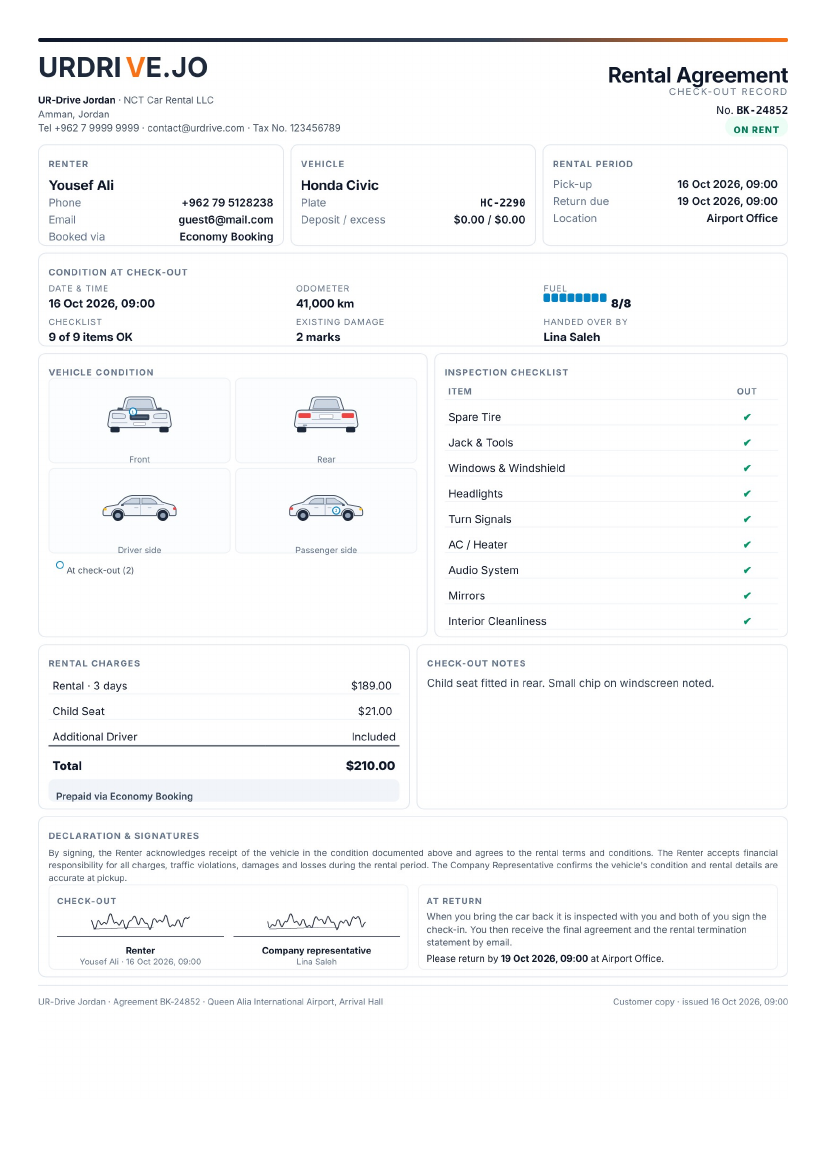
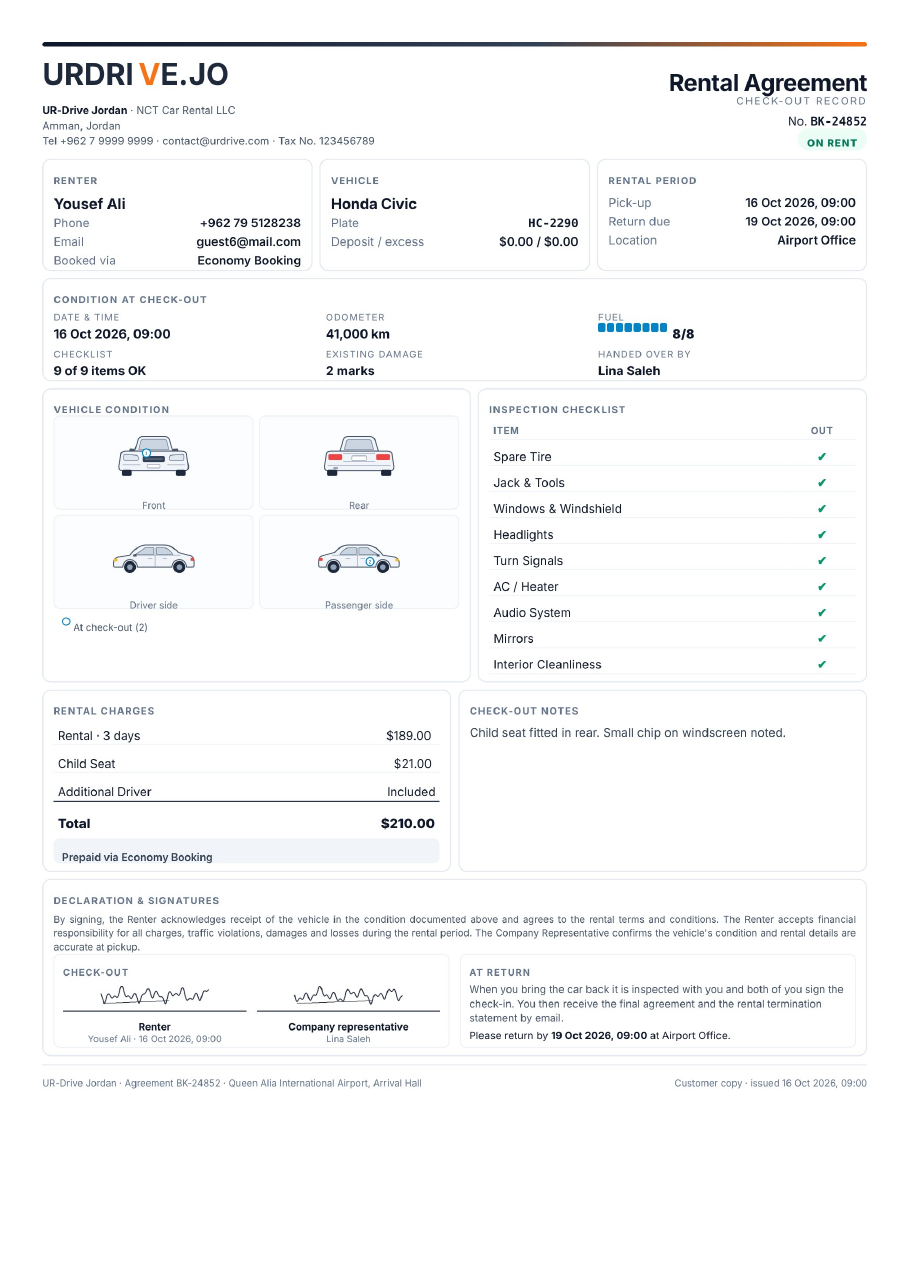
Fit the signed check-in agreement on one page
- Without charges at return, notes sit beside the rental charges and the
  comparison/checklist rows are tighter, so the declaration, all four
  signatures and the check-in time are on the same page as the record.
- PDF export shrinks a document that overflows one page by 10% or less
  onto that page instead of leaving a near-empty second page, and trims
  trailing blank space.

Claude-Session: https://claude.ai/code/session_01SZbkRoLvbcfyYadGhzb7Rr

diff --git a/services/agreementDoc.ts b/services/agreementDoc.ts
@@ -70,6 +70,8 @@ export function buildAgreementHtml(i: AgreementDocInput): string {
     <div class="sig"><div class="si">${img ? `<img src="${esc(img)}"/>` : ''}</div><div class="sl">${esc(role)}</div><div class="sm">${esc([name, at].filter(Boolean).join(' · ') || ' ')}</div></div>`;
   const tick = (v?: boolean, warn?: boolean) => (v ? '<span class="ok">✔</span>' : warn ? '<span class="bad">✕</span>' : '<span class="dim">—</span>');
 
+  // Notes sit beside the rental charges when there is no charges-at-return card, to keep one page.
+  const sideNotes = !rc && (closed ? !!(r.pickupNotes || r.dropOffNotes) : !!r.pickupNotes);
   const status = closed ? ['Closed', 'closed'] : onRent ? ['On rent', 'open'] : ['Booked', 'new'];
   const paymentLine = i.prepaid
     ? `Prepaid via ${esc(r.source || 'partner')}`
@@ -108,6 +110,7 @@ export function buildAgreementHtml(i: AgreementDocInput): string {
   td, th { padding: 3px 4px; border-bottom: 1px solid #f1f5f9; text-align: left; vertical-align: middle; }
   th { font-size: 6.8pt; text-transform: uppercase; letter-spacing: .07em; color: #64748b; font-weight: 700; }
   .cmp th { background: #f8fafc; }
+  .cmp td, .cl td { padding-top: 1px; }
   .cgrid { display: grid; grid-template-columns: repeat(3, 1fr); gap: 6px 14px; }
   .cgrid > div > span { display: block; font-size: 6.8pt; color: #64748b; text-transform: uppercase; letter-spacing: .08em; }
   .cgrid b { font-size: 9pt; }
@@ -137,6 +140,7 @@ export function buildAgreementHtml(i: AgreementDocInput): string {
   .sgrp { border: 1px solid #eef2f6; border-radius: 6px; padding: 5px 8px 6px; }
   .sgrp h3 { font-size: 6.8pt; text-transform: uppercase; letter-spacing: .1em; color: #64748b; margin-bottom: 2px; }
   .sgrp .row { display: grid; grid-template-columns: 1fr 1fr; gap: 10px; }
+  .nl + .nl { margin-top: 5px; } .nl span { display: block; font-size: 6.6pt; text-transform: uppercase; letter-spacing: .08em; color: #94a3b8; }
   .sgrp.next p { font-size: 7.4pt; color: #475569; margin-top: 3px; } .sgrp.next .due { color: #0f172a; }
   .si { height: 34px; display: flex; align-items: flex-end; justify-content: center; }
   .si img { max-height: 34px; max-width: 100%; }
@@ -208,14 +212,14 @@ export function buildAgreementHtml(i: AgreementDocInput): string {
       <div class="legend"><i style="border:1.5px solid #0284c7;background:#fff"></i>At check-out (${pickupMarks.length})${closed ? `<i style="background:#e11d48"></i>New at check-in (${returnMarks.length})` : ''}</div>
     </div>
     <div class="card"><h2>Inspection checklist</h2>
-      <table>
+      <table class="cl">
         <tr><th>Item</th><th class="ctr">Out</th>${closed ? '<th class="ctr">In</th>' : ''}</tr>
         ${i.checklistItems.map(x => `<tr><td>${esc(x)}</td><td class="ctr">${tick(out[x])}</td>${closed ? `<td class="ctr">${tick(back[x], !!out[x])}</td>` : ''}</tr>`).join('')}
       </table>
     </div>
   </div>
 
-  <div class="${rc || (!closed && r.pickupNotes) ? 'g2' : ''}" style="${rc || (!closed && r.pickupNotes) ? '' : 'margin-top:7px'}">
+  <div class="${rc || sideNotes ? 'g2' : ''}" style="${rc || sideNotes ? '' : 'margin-top:7px'}">
     <div class="card"><h2>Rental charges</h2>
       <table>
         <tr><td>Rental · ${i.rentalDays} day${i.rentalDays === 1 ? '' : 's'}</td><td class="num">${usd(i.baseRentalFee)}</td></tr>
@@ -224,7 +228,9 @@ export function buildAgreementHtml(i: AgreementDocInput): string {
       </table>
       <div class="settle info">${paymentLine}${r.unpaidExtensionAmount ? ` · ${usd(r.unpaidExtensionAmount)} extension due` : ''}</div>
     </div>
-    ${!closed && r.pickupNotes ? `<div class="card"><h2>Check-out notes</h2><div class="notes">${esc(r.pickupNotes)}</div></div>` : ''}
+    ${sideNotes ? `<div class="card"><h2>${closed ? 'Notes' : 'Check-out notes'}</h2>${closed
+      ? `<div class="nl"><span>At check-out</span><div class="notes">${esc(r.pickupNotes || '—')}</div></div><div class="nl"><span>At check-in</span><div class="notes">${esc(r.dropOffNotes || '—')}</div></div>`
+      : `<div class="notes">${esc(r.pickupNotes)}</div>`}</div>` : ''}
     ${rc ? `<div class="card"><h2>Charges at check-in · ${esc(rc.documentNumber || '')}</h2>
       <table>
         ${rc.items.map(it => `<tr><td>${esc(CHARGE_KIND_LABEL[it.kind])} — ${esc(it.description)}</td><td class="num">${esc(formatMoney(it.amount, rc.currency))}</td></tr>`).join('')}
@@ -238,7 +244,7 @@ export function buildAgreementHtml(i: AgreementDocInput): string {
 
   ${photos.length ? `<div class="card" style="margin-top:7px"><h2>Photo evidence at check-in</h2><div class="photos">${photos.map(p => `<figure><img src="${esc(p.src)}"/><figcaption>${esc(p.cap)}</figcaption></figure>`).join('')}</div></div>` : ''}
 
-  ${closed && (r.pickupNotes || r.dropOffNotes) ? `<div class="g2">
+  ${closed && rc && (r.pickupNotes || r.dropOffNotes) ? `<div class="g2">
     <div class="card"><h2>Check-out notes</h2><div class="notes">${esc(r.pickupNotes || '—')}</div></div>
     <div class="card"><h2>Check-in notes</h2><div class="notes">${esc(r.dropOffNotes || '—')}</div></div>
   </div>` : ''}

diff --git a/services/agreementPdf.ts b/services/agreementPdf.ts
@@ -46,7 +46,7 @@ export async function agreementHtmlToPdfBase64(html: string): Promise<string> {
 
     // Places where a page may end without cutting through a row, card or photo (in CSS px from the top).
     const bodyTop = body.getBoundingClientRect().top;
-    const breaks = Array.from(doc.querySelectorAll('tr, .card, .avoid, .sec, table, .totals, .note, .band, .photos, .sign, .info, .parties, .sum'))
+    const breaks = Array.from(doc.querySelectorAll('tr, .card, .avoid, .sec, table, .totals, .note, .band, .photos, .sign, .info, .parties, .sum, .foot, .balance, .notes, .sig, .lead, .facts'))
       .map(el => (el as HTMLElement).getBoundingClientRect().bottom - bodyTop)
       .filter(b => b > 0)
       .sort((a, b) => a - b);
@@ -61,9 +61,26 @@ export async function agreementHtmlToPdfBase64(html: string): Promise<string> {
     const sliceH = Math.floor((pageH - margin * 2 - 10) / ratio);
     let y = 0;
     let page = 0;
-    while (y < canvas.height - 2) {
-      let end = Math.min(y + sliceH, canvas.height);
-      if (end < canvas.height) {
+    // Trim the blank space below the last element so it doesn't count as content.
+    const contentBottom = Math.min(canvas.height, Math.round(((breaks[breaks.length - 1] ?? height) + 12) * scale));
+    // A document that is only slightly longer than one page is shrunk onto it rather than leaving a near-empty page.
+    if (contentBottom > sliceH && contentBottom <= sliceH * 1.1) {
+      const fit = (pageH - margin * 2 - 10) / contentBottom;
+      const w = canvas.width * fit;
+      const slice = document.createElement('canvas');
+      slice.width = canvas.width;
+      slice.height = contentBottom;
+      const ctx = slice.getContext('2d')!;
+      ctx.fillStyle = '#ffffff';
+      ctx.fillRect(0, 0, slice.width, slice.height);
+      ctx.drawImage(canvas, 0, 0, canvas.width, contentBottom, 0, 0, canvas.width, contentBottom);
+      pdf.addImage(slice.toDataURL('image/jpeg', 0.9), 'JPEG', (pageW - w) / 2, margin, w, contentBottom * fit);
+      y = canvas.height;
+      page = 1;
+    }
+    while (y < Math.min(canvas.height, contentBottom) - 2) {
+      let end = Math.min(y + sliceH, contentBottom);
+      if (end < contentBottom) {
         const fit = breaks.map(b => Math.round((b + 5) * scale)).filter(b => b > y + sliceH * 0.55 && b <= y + sliceH);
         if (fit.length) end = fit[fit.length - 1];
       }
